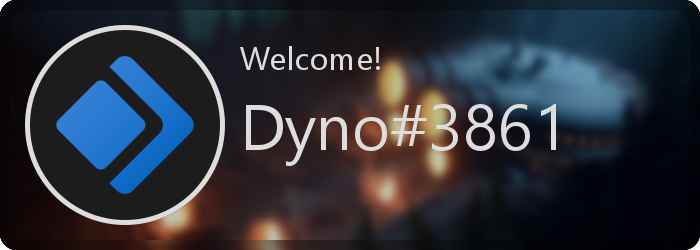
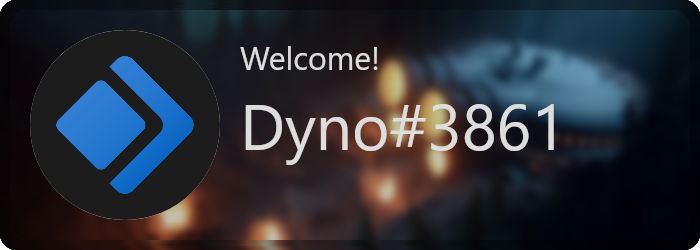
:fire:  Fix example

diff --git a/src/index.ts b/src/index.ts
@@ -2,6 +2,7 @@ import { createCanvas, SKRSContext2D as ctx2D, Canvas, Image } from '@napi-rs/ca
 import { getFontSize, GuildMemberLike, Theme, toImage, roundRect, changeFontSize, blur, loadImage } from '@discord-card/skia-core';
 import { snap, themes } from './lib';
 import { CardOptions } from './types';
+import { readFile } from 'fs/promises';
 
 export async function drawCard(options: CardOptions): Promise<Buffer> {
   const w = 700,
@@ -21,7 +22,7 @@ export async function drawCard(options: CardOptions): Promise<Buffer> {
     theme = themes[options.theme ?? 'code'];
     if (!theme) throw new Error('Invalid theme, use: ' + Object.keys(themes).join(' | '));
 
-    background = await toImage(theme.image);
+    background = await toImage(await readFile(theme.image as string));
   } else throw new Error('Invalid theme, use: ' + Object.keys(themes).join(' | '));
 
   if (options.background) background = await toImage(options.background, 'Background');

diff --git a/examples/minimal/index.js b/examples/minimal/index.js
@@ -1,8 +1,8 @@
 /**
  * This card was designed and developed by @AmitKumarHQ
  */
-const { drawCard, Text } = require('discord-welcome-card');
-const { writeFile } = require('fs/promises');
+const { drawCard, Text } = require('../../');
+const { writeFile, readFile } = require('fs/promises');
 const { join } = require('path');
 const { member, avatar } = require('../mock');
 
@@ -18,13 +18,13 @@ async function run() {
       font: 'Panton Black Caps',
     },
     avatar: {
-      image: avatar,
+      image: await readFile(avatar),
       outlineWidth: 5,
       outlineColor: `#DDDDDD`,
     },
-    background: join(__dirname, './background.png'),
+    background: await readFile(join(__dirname, './background.png')),
   });
 
-  writeFile(join(__dirname, './card.png'), image);
+  await writeFile(join(__dirname, './card.png'), image);
 }
 run();

diff --git a/examples/minimal/README.md b/examples/minimal/README.md
@@ -15,11 +15,11 @@
       font: 'Panton Black Caps',
     },
     avatar: {
-      image: avatar,
+      image: await readFile(avatar),
       outlineWidth: 5,
       outlineColor: `#DDDDDD`,
     },
-    background: join(__dirname, './background.png'),
+    background: await readFile(join(__dirname, './background.png')),
   });
   ```
   
